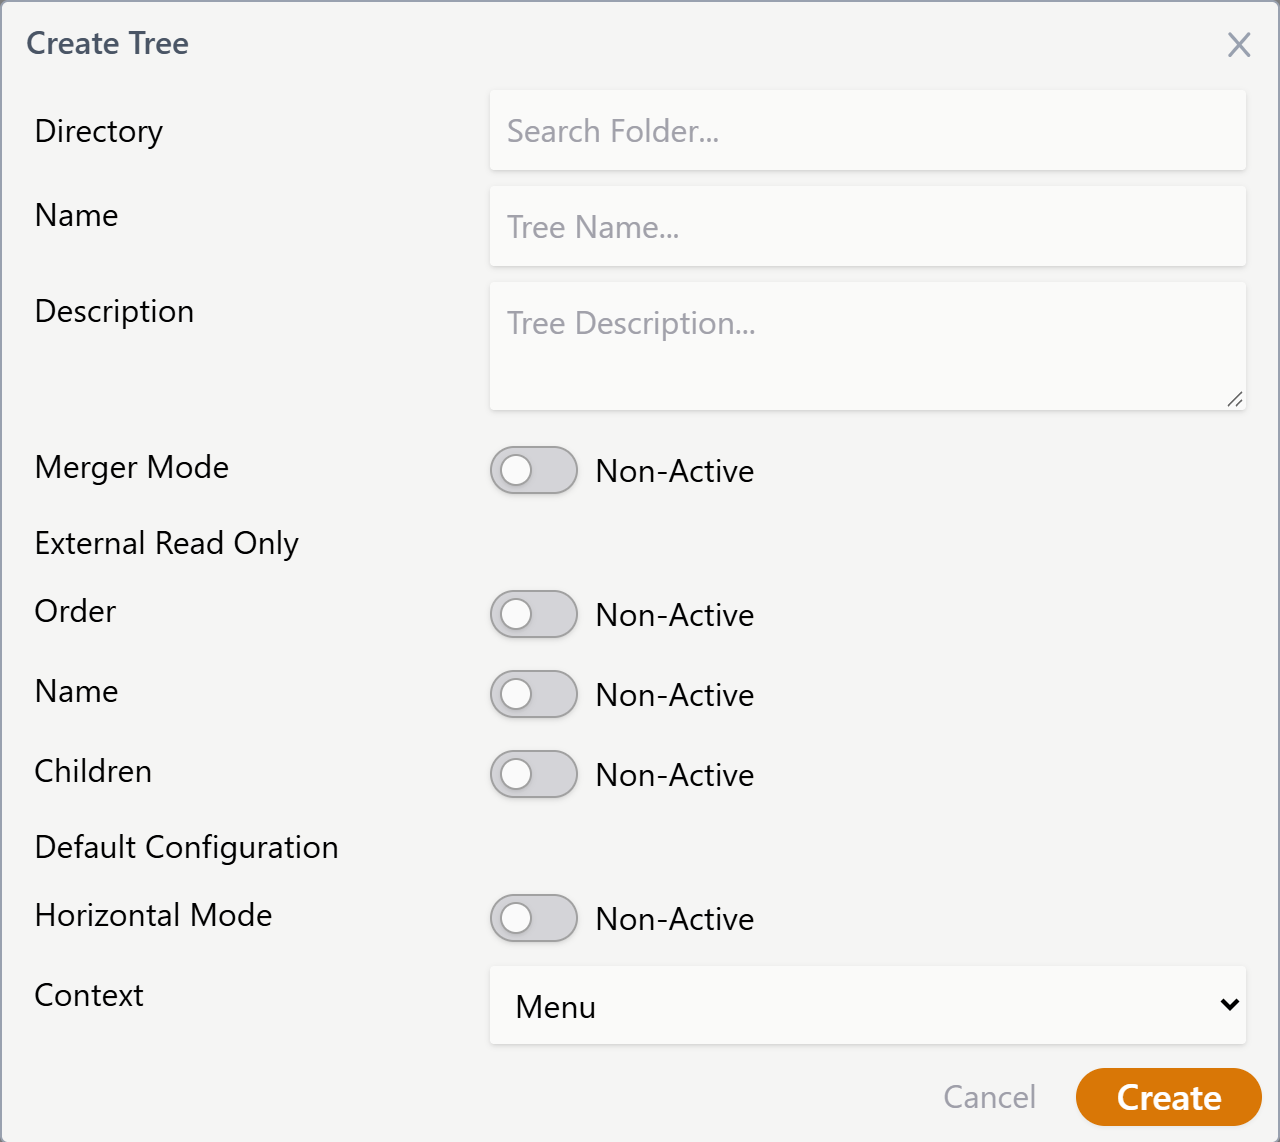
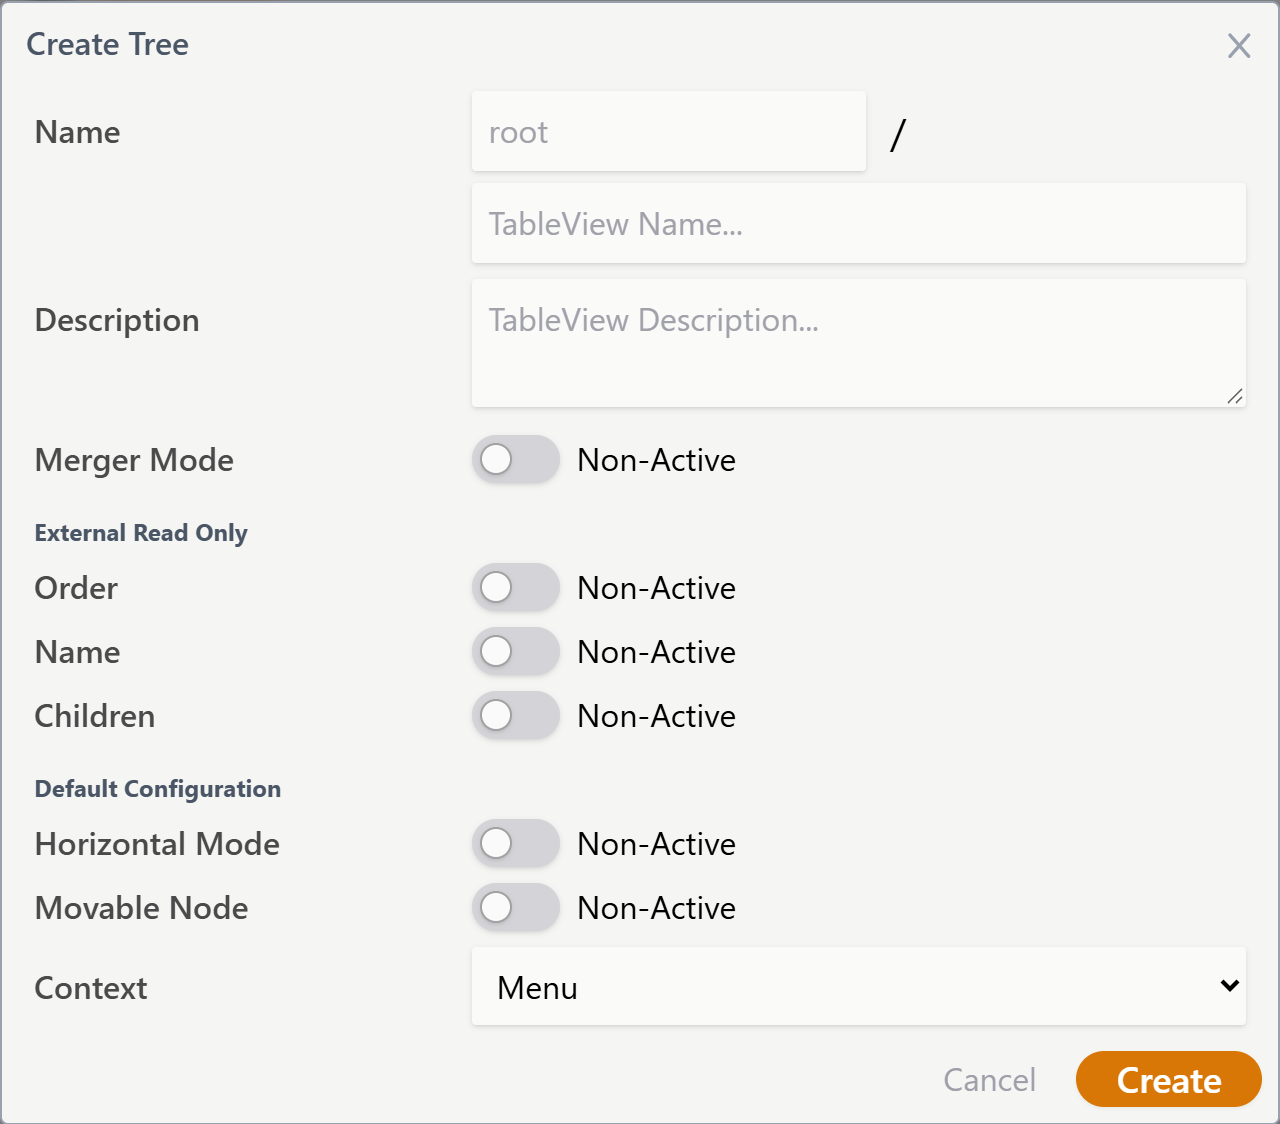
Update 2 files

diff --git a/Docs/Modul Data/Tree/Apa itu Tree.md b/Docs/Modul Data/Tree/Apa itu Tree.md
@@ -4,7 +4,7 @@
     description: Tree adalah komponen modul Data untuk menyimpan data berhierarki berbentuk pohon yang terdiri dari banyak Node.
     pageDecoration:
       tree:
-        priority: 0
+        priority: 4
 ---
 
 # Apa itu Tree?
@@ -75,23 +75,25 @@ Tree yang tidak bersifat merger tidak dapat menambahkan Node dari Tree lain. Nod
 | [[^field|Directory]] | Folder tempat Tree berada. Terisi otomatis sesuai folder yang Anda klik kanan. Jika dikosongkan, Tree berada di root. |
 | [[^field|Name]] | Nama Tree. |
 | [[^field|Description]] | Keterangan singkat tentang Tree. |
-| [[Docs/Modul Data/Tree/Konfigurasi Merger Mode]] | Jika aktif, Tree dapat menambahkan (*clone*) Node dari Tree lain. Bawaan: [[^field|Non-Active]]. |
-| [[#External Read Only]] | Tiga pilihan, yaitu [[^field|Order]], [[^field|Name]], dan [[^field|Children]]. Bawaan masing-masing: [[^field|Non-Active]]. |
+| [[Docs/Modul Data/Tree/Konfigurasi Merger Mode]] | Jika aktif, Tree dapat menambahkan (*clone*) Node dari Tree lain. Bawaan: [[^value/boolean/Non-Active]]. |
+| [[#External Read Only]] | Tiga pilihan, yaitu [[^field|Order]], [[^field|Name]], dan [[^field|Children]]. Bawaan masing-masing: [[^value/boolean/Non-Active]]. |
 | [[#Default Configuration]] | Pengaturan tampilan awal, yaitu [[^field|Horizontal Mode]] dan [[^field|Context]]. |
 
 ### External Read Only
 
 External Read Only mengatur atribut Node yang bersumber dari Tree lain, yaitu Node *clone* dan Node asalnya (*origin*). Setiap atribut memiliki pilihan sendiri:
 
-| Atribut | Jika Non-Active | Jika Active |
+| Atribut | Jika [[^value/boolean/Non-Active]] | Jika [[^value/boolean/Active]] |
 | --- | --- | --- |
 | [[^field|Order]] | [[^field|Order]] Node di Tree ini ikut berubah ketika Node di Tree lain diperbarui. | [[^field|Order]] Node tidak ikut berubah. |
 | [[^field|Name]] | [[^field|Name]] Node di Tree ini ikut berubah ketika Node di Tree lain diperbarui. | [[^field|Name]] Node tidak ikut berubah. |
 | [[^field|Children]] | [[^field|Children]] Node di Tree ini ikut berubah ketika Node di Tree lain diperbarui. | [[^field|Children]] Node tidak ikut berubah. |
 
 <!--
-  * [TODO] Kolom "Jika Active" adalah kebalikan logis dari penjelasan Anda untuk Non-Active. Mohon konfirmasi apakah Active berarti atribut terlindungi dari perubahan Tree lain.
+  * [TODO] Kolom "Jika Active" adalah kebalikan logis dari penjelasan Anda untuk [[^value/boolean/Non-Active]]. Mohon konfirmasi apakah Active berarti atribut terlindungi dari perubahan Tree lain.
+    Jawaban : Betul
   * [TODO] Mohon konfirmasi apakah pengaturan ini hanya relevan untuk Tree dengan Merger Mode (karena Node clone hanya ada di sana), atau juga berlaku untuk Tree non-merger.
+    Jawaban : Berlaku juga, karena tree non-merger bisa terubah dari perubahan node di tree merger.
 -->
 
 ### Default Configuration
@@ -110,10 +112,11 @@ Untuk pilihan [[^field|Context]]:
 | [[^field|Detail]] | Membuka detail Node. |
 
 <!--
-  * [TODO] Mohon konfirmasi arti nilai Horizontal Mode: Non-Active = Vertical? Pada screenshot halaman kerja, mode yang tampil adalah Horizontal.
-  * [TODO] Hasil pilihan Context Edit dan Detail ditulis berdasarkan dugaan dari nama pilihan. Mohon konfirmasi perilaku sebenarnya.
-  * [TODO] Mohon konfirmasi apakah Directory benar terisi otomatis sesuai folder yang diklik kanan (mengikuti pola komponen Table), karena pada screenshot kolom Search Folder... masih kosong.
-  * [TODO] Nama Tree pada screenshot (judul halaman kerja) dan nama pengguna di bilah atas adalah data pribadi. Mohon ganti dengan nama generik sebelum screenshot dipakai.
+  * [TODO] Mohon konfirmasi arti nilai Horizontal Mode: [[^value/boolean/Non-Active]] = Vertical? Pada screenshot halaman kerja, mode yang tampil adalah Horizontal.
+    Jawaban : Ya betul, kalau mode yang tampil udah saya ubah
+  * [DONE] Hasil pilihan Context Edit dan Detail ditulis berdasarkan dugaan dari nama pilihan. Mohon konfirmasi perilaku sebenarnya.
+  * [DONE] Mohon konfirmasi apakah Directory benar terisi otomatis sesuai folder yang diklik kanan (mengikuti pola komponen Table), karena pada screenshot kolom Search Folder... masih kosong.
+  * [DONE] Nama Tree pada screenshot (judul halaman kerja) dan nama pengguna di bilah atas adalah data pribadi. Mohon ganti dengan nama generik sebelum screenshot dipakai.
 -->
 
 ## Mengubah Tree
@@ -125,6 +128,7 @@ Untuk pilihan [[^field|Context]]:
 
 <!--
   * [TODO] Mohon konfirmasi apakah Merger Mode masih dapat diubah setelah Tree memiliki Node, dan apakah ada peringatan jika perubahannya berisiko.
+    Jawaban : Tidak bisa diubah.
 -->
 
 ## Menyegarkan Tree
@@ -339,7 +343,7 @@ Dengan memisahkan Tree sumber dan Tree penggabung, data tetap dikelola oleh pemi
 > **Apa bedanya Tree biasa dengan Tree yang memakai Merger Mode?**
 > Tree biasa hanya menyimpan Node miliknya sendiri. Tree dengan [[Docs/Modul Data/Tree/Konfigurasi Merger Mode|Merger Mode]] dapat menambahkan (*clone*) Node dari Tree lain, sedangkan Tree biasa tidak dapat melakukannya.
 > **Apakah perubahan pada Node asal otomatis muncul di Node *clone*?**
-> Hal ini bergantung pada [[#External Read Only]]. Jika [[^field|Order]], [[^field|Name]], atau [[^field|Children]] berstatus [[^field|Non-Active]], atribut tersebut ikut berubah ketika Node di Tree lain diperbarui.
+> Hal ini bergantung pada [[#External Read Only]]. Jika [[^field|Order]], [[^field|Name]], atau [[^field|Children]] berstatus [[^value/boolean/Non-Active]], atribut tersebut ikut berubah ketika Node di Tree lain diperbarui.
 > **Apa yang dicari oleh [[^field|Search Tree Data...]]?**
 > Kolom ini hanya mencari berdasarkan [[^field|Name]] Node.
 > **Mengapa menu [[^field|Collapse]] berubah menjadi [[^field|No children...]]?**
